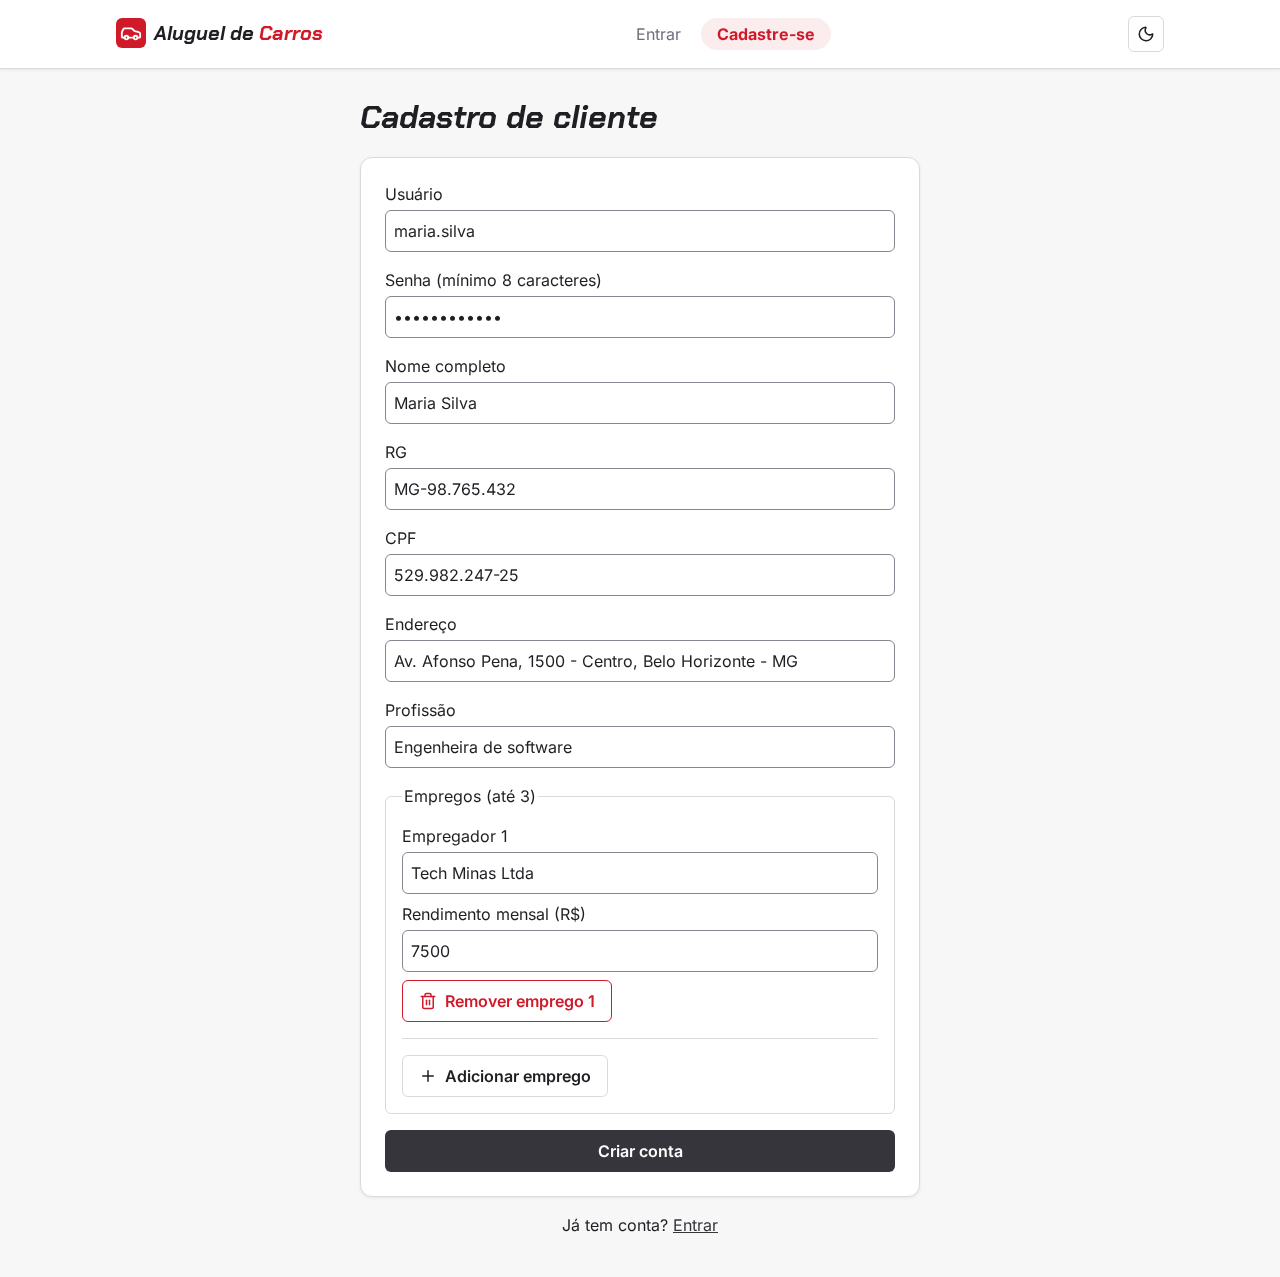
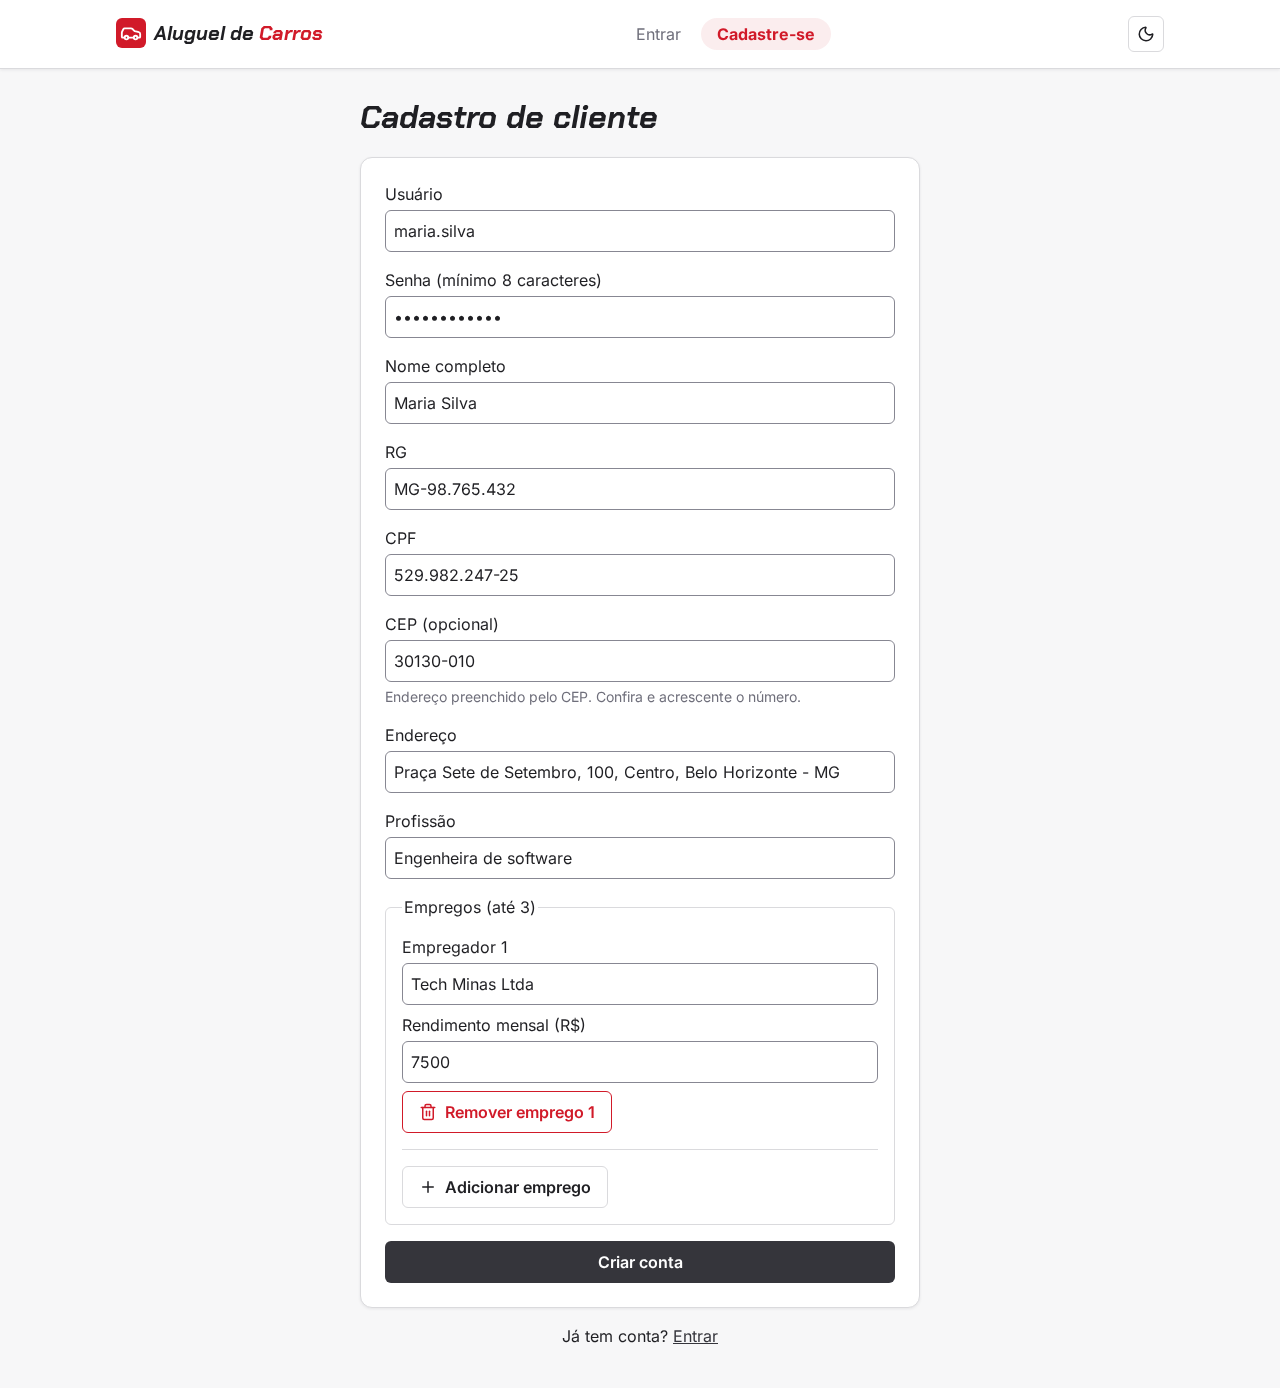
endereço preenchido pelo CEP com a BrasilAPI

diff --git a/frontend/src/components/ClientForm/ClientForm.jsx b/frontend/src/components/ClientForm/ClientForm.jsx
@@ -1,7 +1,8 @@
-import { useState } from "react";
+import { Fragment, useState } from "react";
 import Alert from "../Alert/Alert";
 import Button from "../Button/Button";
 import Card from "../Card/Card";
+import CepField from "../CepField/CepField";
 import Field from "../Field/Field";
 import EmploymentFields from "../EmploymentFields/EmploymentFields";
 import styles from "./ClientForm.module.css";
@@ -16,6 +17,8 @@ const EMPTY_CLIENT = {
   profession: "",
   employments: [],
 };
+
+const ADDRESS_FIELD = "address";
 
 const CREDENTIAL_FIELDS = [
   { name: "username", label: "Usuário", autoComplete: "username" },
@@ -42,6 +45,10 @@ function ClientForm({ client = EMPTY_CLIENT, withCredentials = false, submitLabe
     setForm((currentForm) => ({ ...currentForm, [name]: value }));
   }
 
+  function handleAddressFound(address) {
+    setForm((currentForm) => ({ ...currentForm, address }));
+  }
+
   function handleEmploymentsChange(employments) {
     setForm((currentForm) => ({ ...currentForm, employments }));
   }
@@ -64,18 +71,21 @@ function ClientForm({ client = EMPTY_CLIENT, withCredentials = false, submitLabe
     <Card as="form" className={styles.form} onSubmit={handleSubmit} noValidate>
       {error && <Alert type="error">{error}</Alert>}
       {fields.map((field) => (
-        <Field key={field.name} id={field.name} label={field.label} error={fieldErrors[field.name]}>
-          <input
-            id={field.name}
-            name={field.name}
-            type={field.type ?? "text"}
-            autoComplete={field.autoComplete}
-            inputMode={field.inputMode}
-            value={form[field.name]}
-            onChange={handleChange}
-            aria-invalid={Boolean(fieldErrors[field.name])}
-          />
-        </Field>
+        <Fragment key={field.name}>
+          {field.name === ADDRESS_FIELD && <CepField onAddressFound={handleAddressFound} />}
+          <Field id={field.name} label={field.label} error={fieldErrors[field.name]}>
+            <input
+              id={field.name}
+              name={field.name}
+              type={field.type ?? "text"}
+              autoComplete={field.autoComplete}
+              inputMode={field.inputMode}
+              value={form[field.name]}
+              onChange={handleChange}
+              aria-invalid={Boolean(fieldErrors[field.name])}
+            />
+          </Field>
+        </Fragment>
       ))}
       <EmploymentFields
         employments={form.employments}

diff --git a/frontend/src/components/CepField/CepField.jsx b/frontend/src/components/CepField/CepField.jsx
@@ -1,0 +1,60 @@
+import { useState } from "react";
+import { getAddressByCep } from "../../services/brasilApiService";
+import { formatAddress, maskCep } from "../../utils/formatters";
+import Field from "../Field/Field";
+
+const CEP_DIGITS = 8;
+const CEP_LENGTH = 9;
+const EMPTY_HINT = "Digite o CEP para preencher o endereço.";
+const FILLED_HINT = "Endereço preenchido pelo CEP. Confira e acrescente o número.";
+
+function CepField({ onAddressFound }) {
+  const [cep, setCep] = useState("");
+  const [error, setError] = useState("");
+  const [found, setFound] = useState(false);
+
+  function handleChange(event) {
+    const input = event.target;
+    const maskedCep = maskCep(input.value);
+    setCep(maskedCep);
+    setError("");
+    setFound(false);
+    const digits = onlyDigits(maskedCep);
+    if (digits.length !== CEP_DIGITS) {
+      return;
+    }
+    getAddressByCep(digits)
+      .then((address) => {
+        if (onlyDigits(input.value) === digits) {
+          onAddressFound(formatAddress(address));
+          setFound(true);
+        }
+      })
+      .catch((lookupError) => {
+        if (onlyDigits(input.value) === digits) {
+          setError(lookupError.message);
+        }
+      });
+  }
+
+  return (
+    <Field id="cep" label="CEP (opcional)" error={error} hint={found ? FILLED_HINT : EMPTY_HINT}>
+      <input
+        id="cep"
+        inputMode="numeric"
+        autoComplete="postal-code"
+        placeholder="00000-000"
+        maxLength={CEP_LENGTH}
+        value={cep}
+        onChange={handleChange}
+        aria-invalid={Boolean(error)}
+      />
+    </Field>
+  );
+}
+
+function onlyDigits(value) {
+  return value.replace(/\D/g, "");
+}
+
+export default CepField;

diff --git a/frontend/src/services/brasilApiService.js b/frontend/src/services/brasilApiService.js
@@ -1,11 +1,30 @@
 import API_CONFIG from "../config/apiConfig";
 
 const HOLIDAYS_ERROR_MESSAGE = "Não foi possível consultar os feriados.";
+const CEP_NOT_FOUND_STATUS = 404;
+const CEP_NOT_FOUND_MESSAGE = "CEP não encontrado. Preencha o endereço à mão.";
+const CEP_ERROR_MESSAGE = "Não foi possível consultar o CEP. Preencha o endereço à mão.";
 
 export async function getNationalHolidays(year) {
   const response = await fetch(`${API_CONFIG.BRASIL_API_URL}/feriados/v1/${year}`);
   if (!response.ok) {
     throw new Error(HOLIDAYS_ERROR_MESSAGE);
+  }
+  return response.json();
+}
+
+export async function getAddressByCep(cep) {
+  let response;
+  try {
+    response = await fetch(`${API_CONFIG.BRASIL_API_URL}/cep/v2/${cep}`);
+  } catch {
+    throw new Error(CEP_ERROR_MESSAGE);
+  }
+  if (response.status === CEP_NOT_FOUND_STATUS) {
+    throw new Error(CEP_NOT_FOUND_MESSAGE);
+  }
+  if (!response.ok) {
+    throw new Error(CEP_ERROR_MESSAGE);
   }
   return response.json();
 }

diff --git a/frontend/src/utils/formatters.js b/frontend/src/utils/formatters.js
@@ -1,6 +1,7 @@
 const CPF_PATTERN = /^(\d{3})(\d{3})(\d{3})(\d{2})$/;
 const LOCAL_DATE_PATTERN = /^(\d{2})\/(\d{2})\/(\d{4})$/;
 const DATE_DIGITS = 8;
+const CEP_DIGITS = 8;
 const currencyFormatter = new Intl.NumberFormat("pt-BR", { style: "currency", currency: "BRL" });
 const dateFormatter = new Intl.DateTimeFormat("pt-BR", { timeZone: "America/Sao_Paulo" });
 
@@ -23,6 +24,15 @@ export function formatLocalDate(date) {
 
 export function formatHolidays(holidays) {
   return holidays.map((holiday) => `${holiday.name} (${formatLocalDate(holiday.date)})`).join(", ");
+}
+
+export function maskCep(value) {
+  const digits = value.replace(/\D/g, "").slice(0, CEP_DIGITS);
+  return digits.length > 5 ? `${digits.slice(0, 5)}-${digits.slice(5)}` : digits;
+}
+
+export function formatAddress(address) {
+  return [address.street, address.neighborhood, `${address.city} - ${address.state}`].filter(Boolean).join(", ");
 }
 
 export function maskLocalDate(value) {

diff --git a/frontend/src/pages/DesignSystemPage.jsx b/frontend/src/pages/DesignSystemPage.jsx
@@ -402,6 +402,9 @@ function ComponentsSection() {
         <Field id="ds-cpf" label="CPF" error="CPF inválido.">
           <input id="ds-cpf" defaultValue="111.111.111-11" aria-invalid="true" />
         </Field>
+        <Field id="ds-cep" label="CEP (opcional)" hint="Digite o CEP para preencher o endereço.">
+          <input id="ds-cep" placeholder="00000-000" />
+        </Field>
       </div>
       <h3 className={styles.subtitle}>Alert</h3>
       <div>

diff --git a/frontend/src/components/Field/Field.jsx b/frontend/src/components/Field/Field.jsx
@@ -1,11 +1,12 @@
 import styles from "./Field.module.css";
 
-function Field({ id, label, error, children }) {
+function Field({ id, label, error, hint, children }) {
   return (
     <div className={styles.field}>
       <label htmlFor={id}>{label}</label>
       {children}
       {error && <p className={styles.error}>{error}</p>}
+      {hint && !error && <p className={styles.hint}>{hint}</p>}
     </div>
   );
 }

diff --git a/frontend/src/components/Field/Field.module.css b/frontend/src/components/Field/Field.module.css
@@ -9,3 +9,9 @@
   font-size: var(--font-size-sm);
   color: var(--color-danger);
 }
+
+.hint {
+  margin: 0;
+  font-size: var(--font-size-sm);
+  color: var(--color-text-secondary);
+}

diff --git a/README.md b/README.md
@@ -82,7 +82,7 @@ Na segunda etapa, o front-end ganhou um **design system**: paleta montada a part
 ## ✨ Funcionalidades
 
 - 🔐 **Cadastro e login** com usuário e senha (JWT). O cliente se cadastra; os agentes já vêm criados.
-- 👤 **Perfil do cliente** com RG, CPF, endereço, profissão e até 3 empregos com rendimento. O cliente edita os dados e pode excluir a conta.
+- 👤 **Perfil do cliente** com RG, CPF, endereço, profissão e até 3 empregos com rendimento. O cliente edita os dados e pode excluir a conta. No cadastro e no perfil, o endereço pode ser preenchido pelo CEP (BrasilAPI).
 - 📝 **Pedidos de aluguel:** o cliente escolhe o automóvel e o período, acompanha o status e pode modificar (em análise) ou cancelar (em análise ou aprovado).
 - 📅 **Feriados no período:** ao escolher as datas, e no detalhe do pedido, o sistema avisa quais feriados nacionais caem no aluguel, consultando a BrasilAPI.
 - ✅ **Avaliação financeira:** o agente aprova ou reprova o pedido com um parecer. Um automóvel não pode ter dois pedidos aprovados no mesmo período.
@@ -104,7 +104,7 @@ Os status do pedido são: **Em análise**, **Aprovado**, **Reprovado**, **Cancel
 - **React 19** com **Vite 8** e **React Router 7**
 - **JavaScript** e **CSS Modules**, com tokens de cor e espaçamento em `styles/tokens.css` (tema claro e escuro)
 - **lucide-react** para os ícones
-- **BrasilAPI** para os feriados nacionais (API pública, chamada direto pelo navegador)
+- **BrasilAPI** para os feriados nacionais e o endereço pelo CEP (API pública, chamada direto pelo navegador)
 - Fontes **Chakra Petch** (logo e títulos) e **Inter** (texto), do Google Fonts
 - **oxlint** para o lint
 
@@ -136,7 +136,7 @@ O sistema segue o padrão **MVC** e é dividido em dois subsistemas, que só con
 - **Construção dinâmica das páginas** (`frontend/`): é a **View**. As páginas em React chamam a API só pela camada de `services`. O visual sai de componentes reutilizáveis (`Button`, `Field`, `Card`, `Alert`, `StatusBadge`, `Logo`), que usam só os tokens de `styles/tokens.css`.
 - **Gestão de pedidos e contratos** (`backend/`): os **Controllers** recebem as requisições e devolvem DTOs, os **Services** aplicam as regras de negócio e a checagem de dono e de perfil, e o **Model** (entidades e repositórios) guarda os dados no Supabase. As regras de mudança de status ficam nos métodos da própria entidade `RentalRequest` (`approve`, `reject`, `cancel`, `markAsContracted`).
 
-O navegador nunca acessa o banco: só o back-end fala com o Supabase. A única chamada que sai do front para fora do sistema é a da BrasilAPI (feriados), feita sem o token de login.
+O navegador nunca acessa o banco: só o back-end fala com o Supabase. As únicas chamadas que saem do front para fora do sistema são as da BrasilAPI (feriados e CEP), feitas sem o token de login.
 
 ### Diagramas atuais
 
@@ -302,7 +302,7 @@ Depois do primeiro deploy na Vercel, coloque a URL dela em `CORS_ALLOWED_ORIGINS
 
 | Login | Cadastro de cliente |
 | :---: | :---: |
-| <img src="./docs/screenshots/login.png" alt="Tela de login" width="420"> | <img src="./docs/screenshots/cadastro.png" alt="Tela de cadastro de cliente com um emprego" width="420"> |
+| <img src="./docs/screenshots/login.png" alt="Tela de login" width="420"> | <img src="./docs/screenshots/cadastro.png" alt="Tela de cadastro de cliente com o endereço preenchido pelo CEP e um emprego" width="420"> |
 
 | Pedidos do cliente | Detalhe com avaliação e contrato |
 | :---: | :---: |

diff --git a/docs/uml/README.md b/docs/uml/README.md
@@ -44,6 +44,8 @@ O pedido de aluguel passou a avisar quando o período inclui feriados nacionais.
 
 O back-end não mudou. Os casos de uso também continuam os mesmos: o aviso de feriado é uma informação dentro de "Criar pedido", "Modificar pedido" e "Consultar pedidos", não um caso de uso novo.
 
+Depois, o cadastro e o perfil passaram a preencher o endereço pelo CEP, também pela BrasilAPI. O componente `CepField` (em `components`) chama o mesmo `brasilApiService`, então a seta `services → BrasilAPI` já cobre esse uso e o diagrama da v4 continua valendo. O CEP só ajuda a preencher o campo de endereço e não é salvo, por isso o diagrama de classes também não muda.
+
 ## Casos de uso → histórias de usuário
 
 As histórias estão em [`docs/historias-de-usuario.md`](../historias-de-usuario.md).
